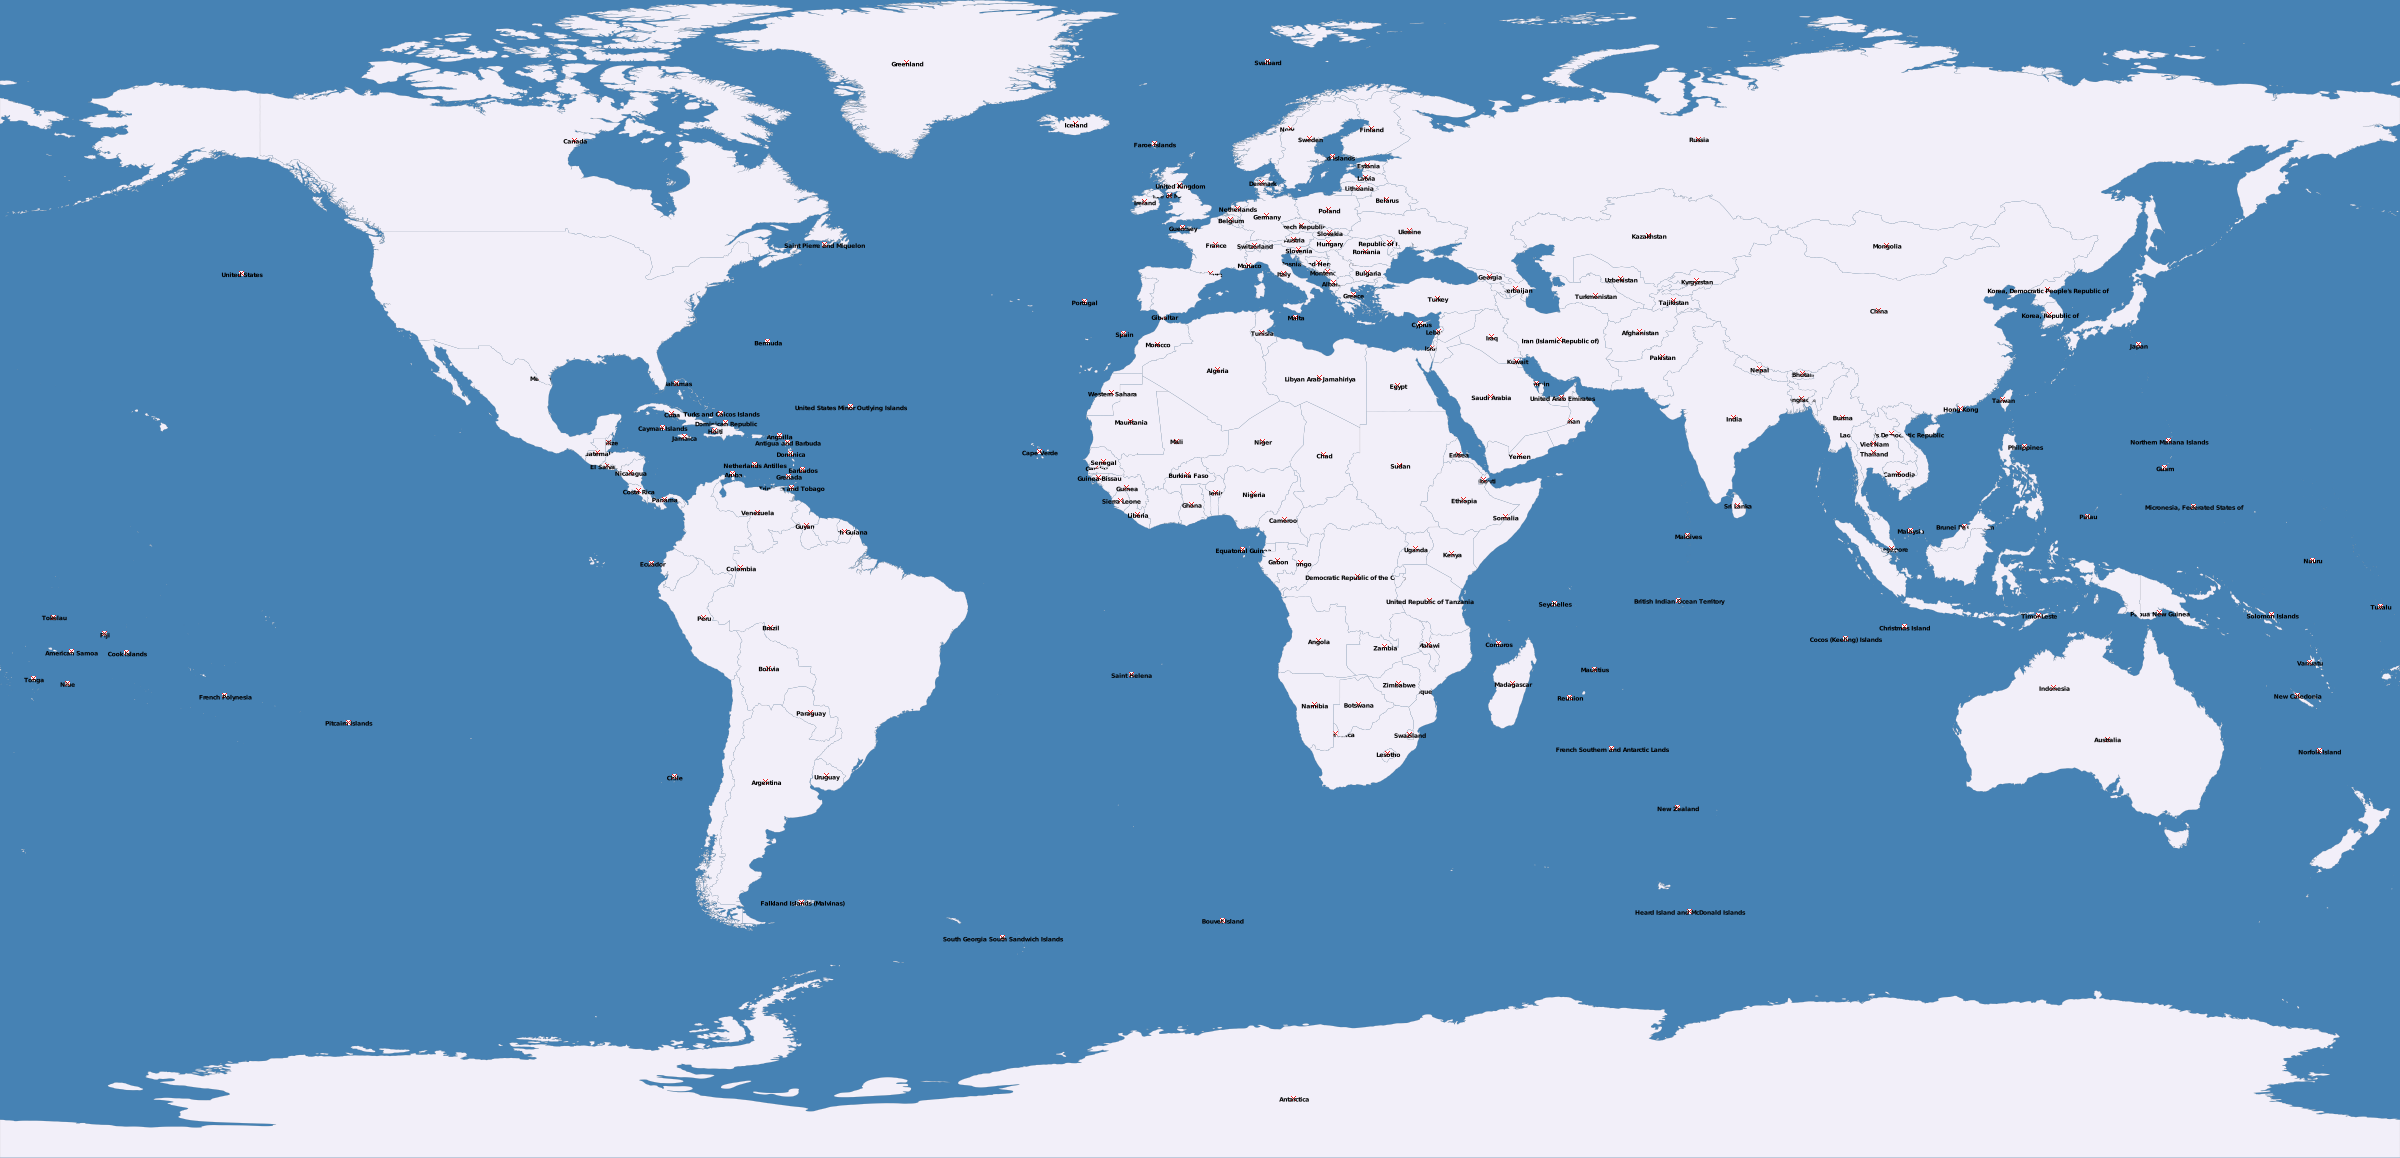
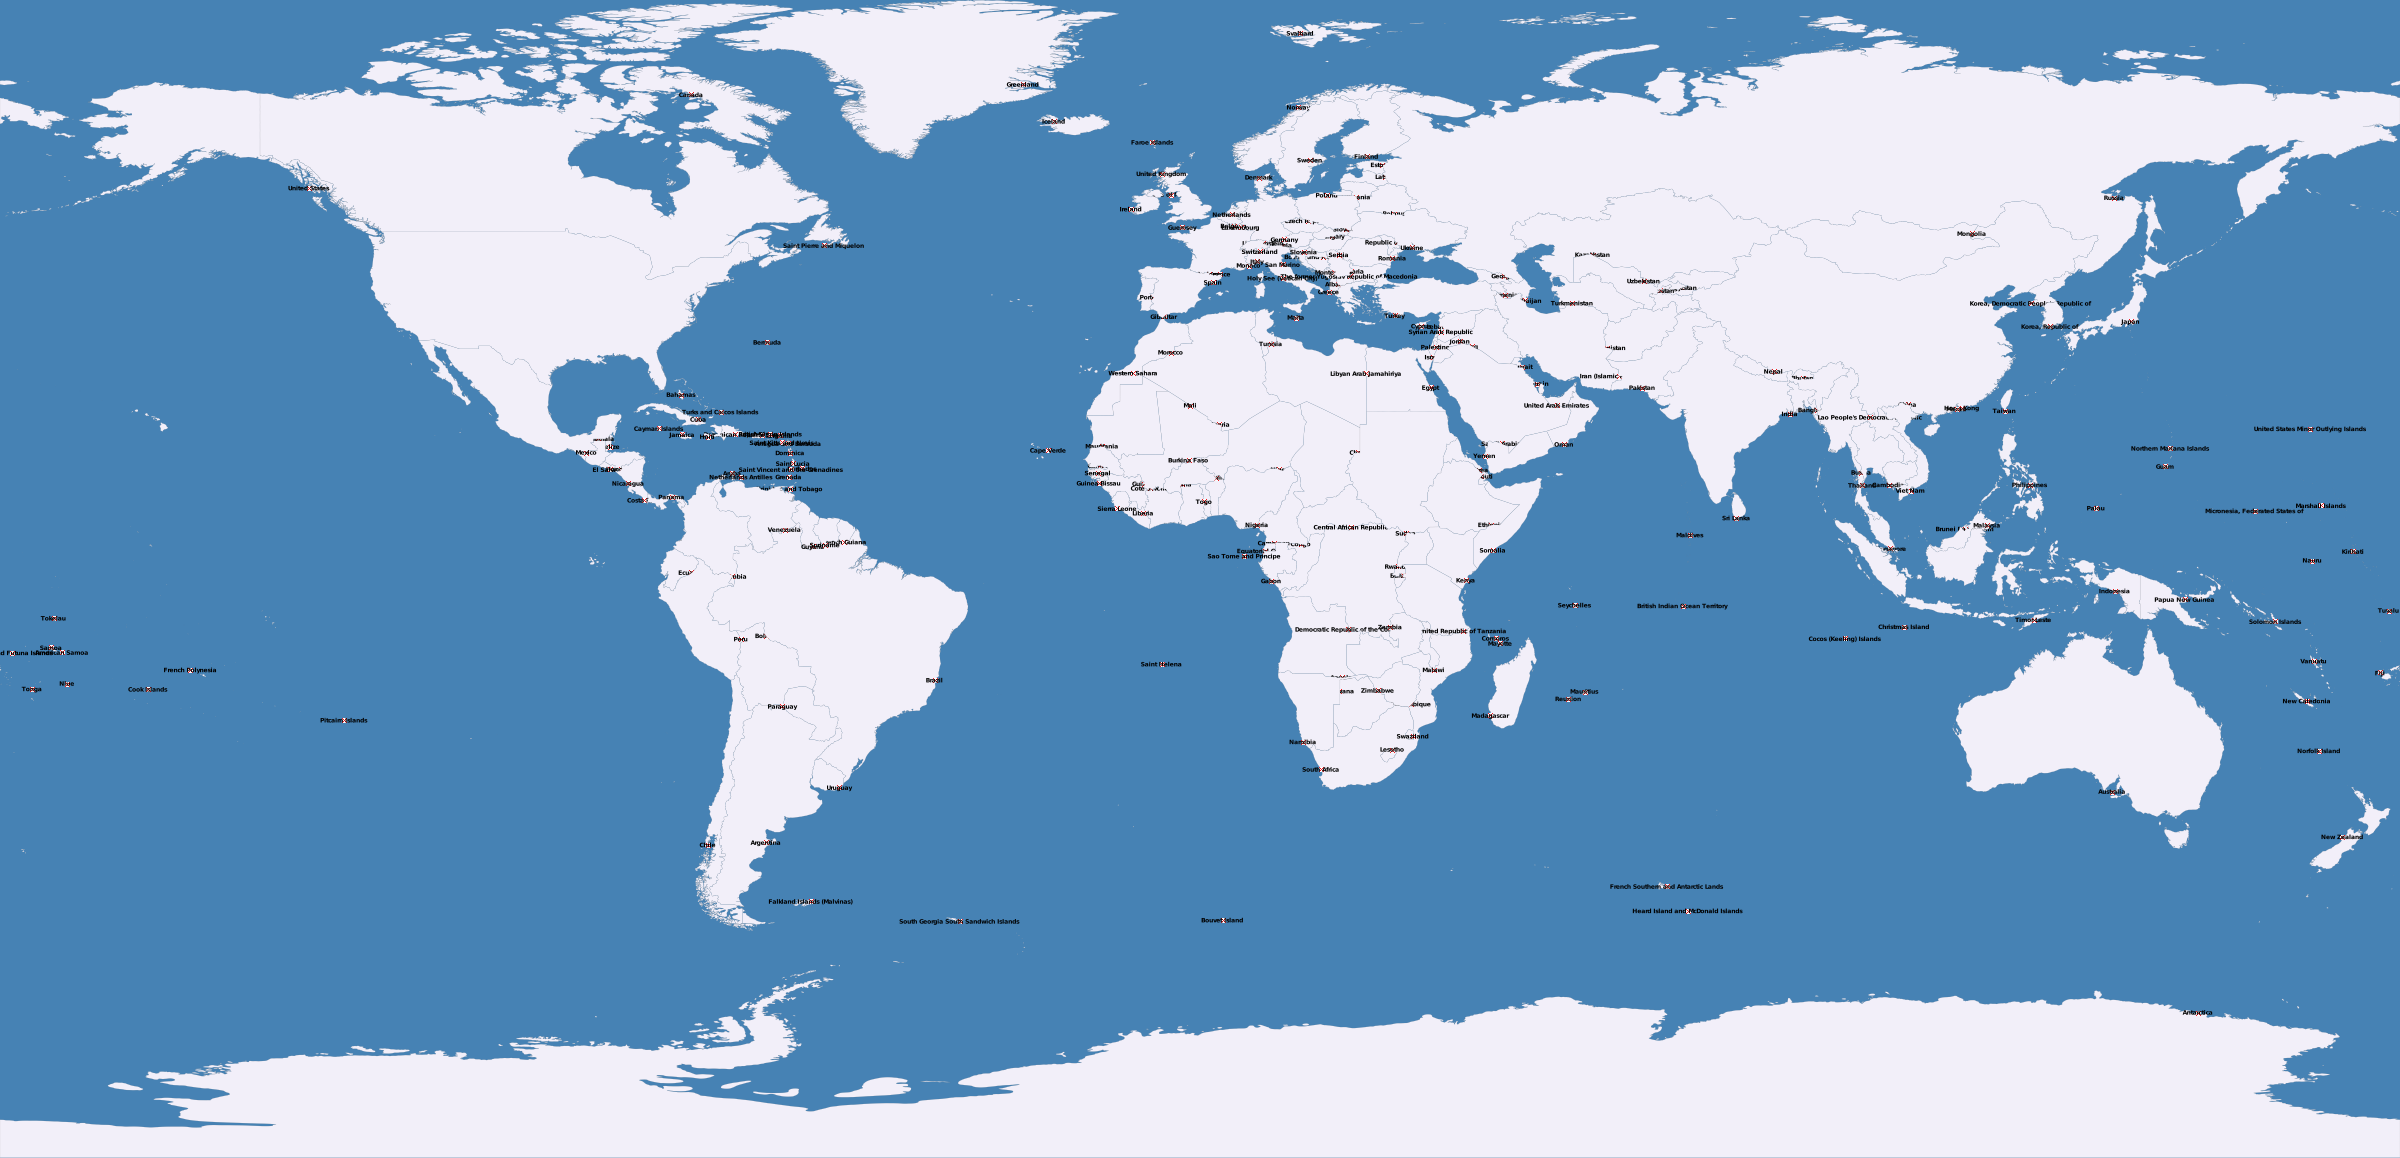
let's commit before going to bed

diff --git a/test.py b/test.py
@@ -1,0 +1,52 @@
+#!/usr/bin/env python
+# This file is part of the project Banditvis and licensed under GNU LGPL.
+
+import mapnik			# for drawing the map
+
+# Instantiate a map object with given width, height and spatial reference system
+m = mapnik.Map(2400,1158,"+proj=latlong +datum=WGS84")
+
+# Set background colour to 'steelblue'.  
+# You can use 'named' colours, #rrggbb, #rgb or rgb(r%,g%,b%) format
+m.background = mapnik.Color('steelblue')
+
+### Map Style
+style0 = mapnik.Style()
+rule0 = mapnik.Rule()
+rule0.symbols.append(mapnik.PolygonSymbolizer(mapnik.Color('#f2eff9')))
+rule0.symbols.append(mapnik.LineSymbolizer(mapnik.Color('rgb(50%,50%,50%)'),0.1))
+#rule0.symbols.append(mapnik.ShieldSymbolizer('NAME','DejaVu Sans Bold', 6, mapnik.Color('#000000'),'', '', 0, 0))
+style0.rules.append(rule0)
+
+### Data Style
+style1 = mapnik.Style()
+rule1 = mapnik.Rule()
+#rule1.symbols.append(mapnik.ShieldSymbolizer('NAME','DejaVu Sans Bold', 10, mapnik.Color('#000000'),'attacker.png', 'png', 5, 5))
+style1.rules.append(rule1)
+
+### Add styles
+m.append_style('Map Style', style0)
+m.append_style('Data Style', style1)
+
+
+### World Layer
+layer0 = mapnik.Layer('world',"+proj=latlong +datum=WGS84")
+layer0.datasource = mapnik.Shapefile(file='data/shapes/TM_WORLD_BORDERS-0.3')
+layer0.styles.append('Map Style')
+
+### Data Layer
+layer1 = mapnik.Layer('attackers',"+proj=latlong +datum=WGS84")
+layer1.datasource = mapnik.Shapefile(file='data/shapes/TM_WORLD_BORDERS-0.3')
+layer1.styles.append('Data Style')
+
+### Add Layers
+m.layers.append(layer0)
+m.layers.append(layer1)
+
+### Zoom
+m.zoom_to_box(layer0.envelope())
+
+### Write file
+mapnik.render_to_file(m,'output/world.png', 'png')
+
+exit()
